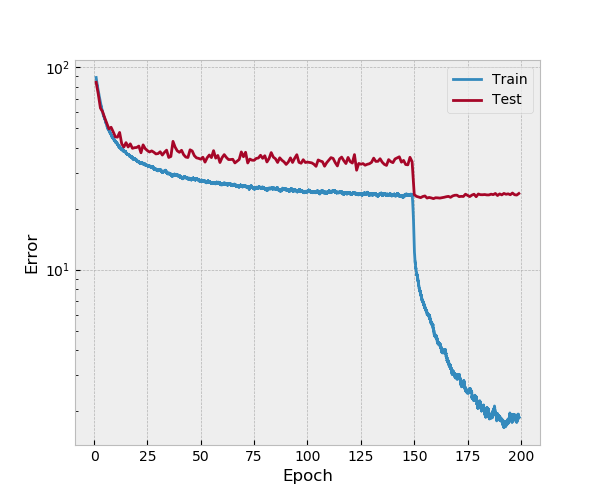
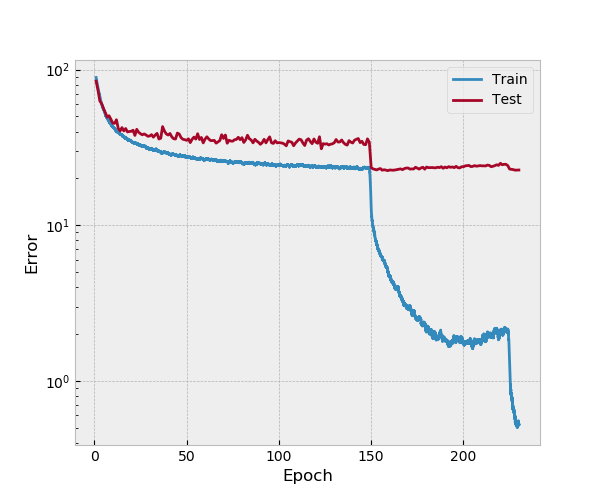
epoch 230, cutout

diff --git a/densenet/train.py b/densenet/train.py
@@ -144,7 +144,7 @@ def train(args, epoch, net, trainLoader, optimizer, trainF):
     nProcessed = 0
     nTrain = len(trainLoader.dataset)
     for batch_idx, (data, target) in enumerate(trainLoader):
-        # data = cutout(data)
+        data = cutout(data)
         # data = negative(data)
         if args.cuda:
             data, target = data.cuda(), target.cuda()
